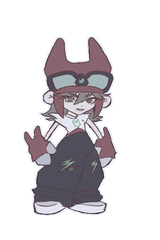
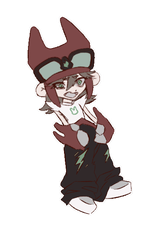
Player scare: the artist's four hand-drawn frames (flinch, hands up, frightened face)

diff --git a/ArtSource/Story/make_characters.py b/ArtSource/Story/make_characters.py
@@ -45,12 +45,6 @@ def pose(sx=1.0, sy=1.0, angle=0.0, lift=0.0, dx=0.0, image=src):
     return canvas
 
 
-def tint(im, rgb, amount):
-    a = np.asarray(im).astype(float)
-    a[..., :3] = a[..., :3] * (1 - amount) + np.array(rgb) * amount
-    return Image.fromarray(a.astype(np.uint8))
-
-
 def save(frames, folder, name):
     (OUT / folder).mkdir(parents=True, exist_ok=True)
     for i, f in enumerate(frames):
@@ -83,8 +77,17 @@ for i in range(4):
     canvas.alpha_composite(big, (round(FEET[0] - hat_x(j) * scale), FEET[1] - BODY))
     jump_frames.append(canvas)
 save(jump_frames, "Player", "Player_Jump")
-pale = tint(src, (170, 190, 235), 0.25)
-save([pose(1.04, 0.94, 0, 0, d, pale) for d in (-4, 4, -3, 3)], "Player", "Player_Scare")
+# The artist's scare (Scare/Scare_0..3): flinching, hands up. It loops while the shadow is near and
+# the player can't move, so every frame stands on the ground; the side-to-side lean stays as drawn.
+scare = [Image.open(HERE / f"Scare/Scare_{i}.png").convert("RGBA") for i in range(4)]
+scare_x = np.mean([hat_x(f.crop((0, f.getbbox()[1], f.width, f.height))) for f in scare])
+scare_frames = []
+for f in scare:
+    big = resize(f, f.width * scale, f.height * scale)
+    canvas = Image.new("RGBA", CANVAS)
+    canvas.alpha_composite(big, (round(FEET[0] - scare_x * scale), round(FEET[1] - f.getbbox()[3] * scale)))
+    scare_frames.append(canvas)
+save(scare_frames, "Player", "Player_Scare")
 
 # ---- shadow: the same silhouette, made of smoke, with the player's eyes ----
 SH_BODY, PAD = 192, 28
